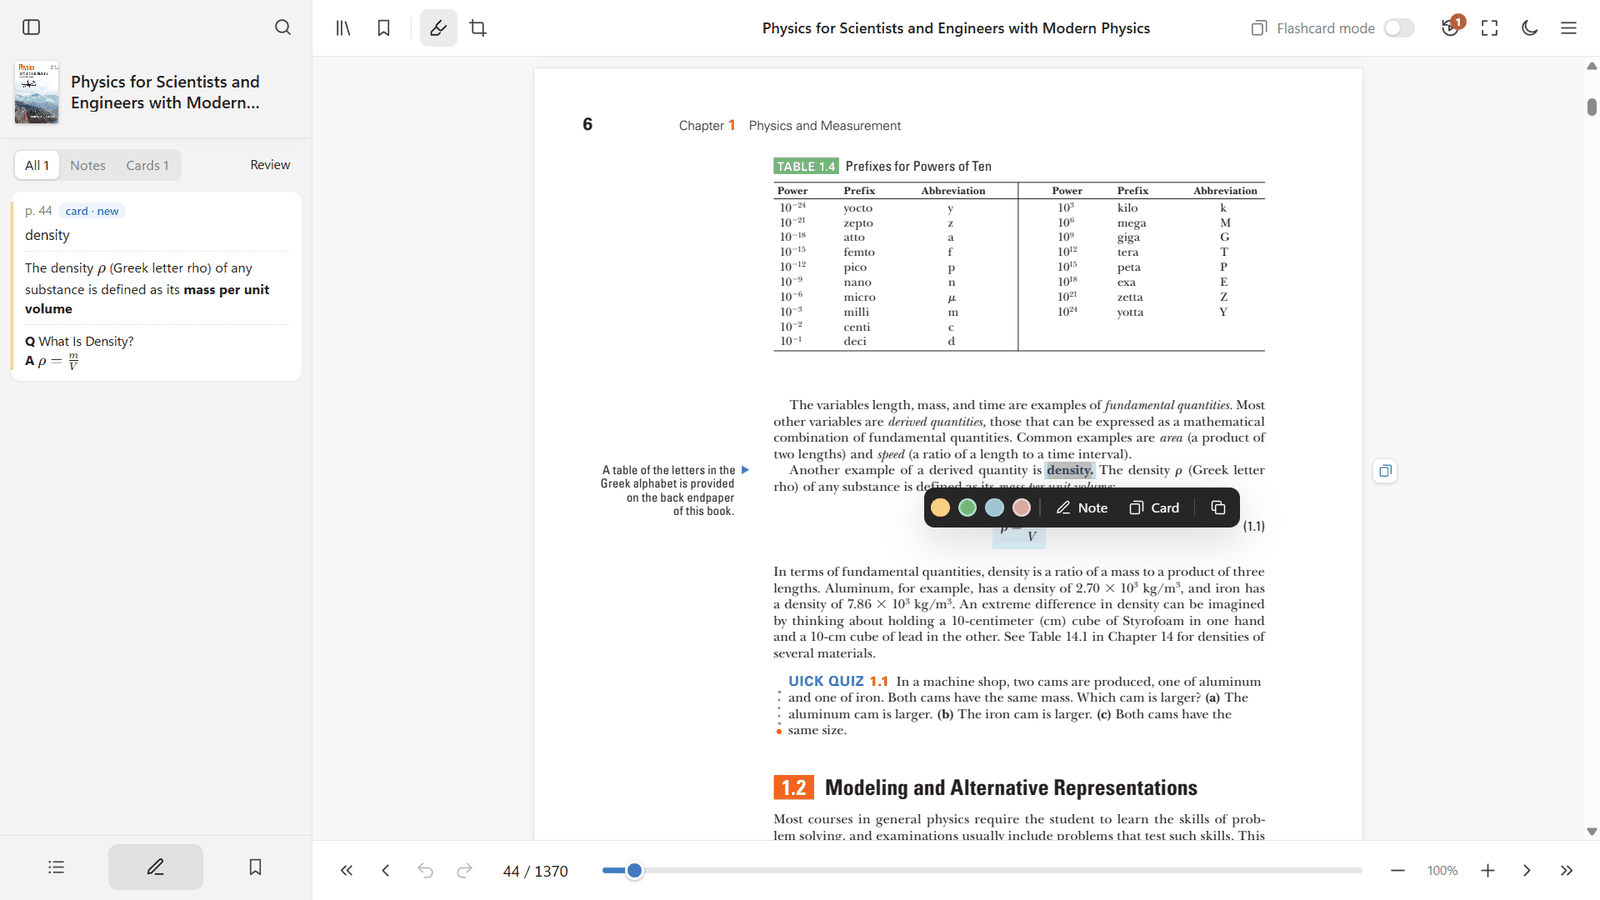
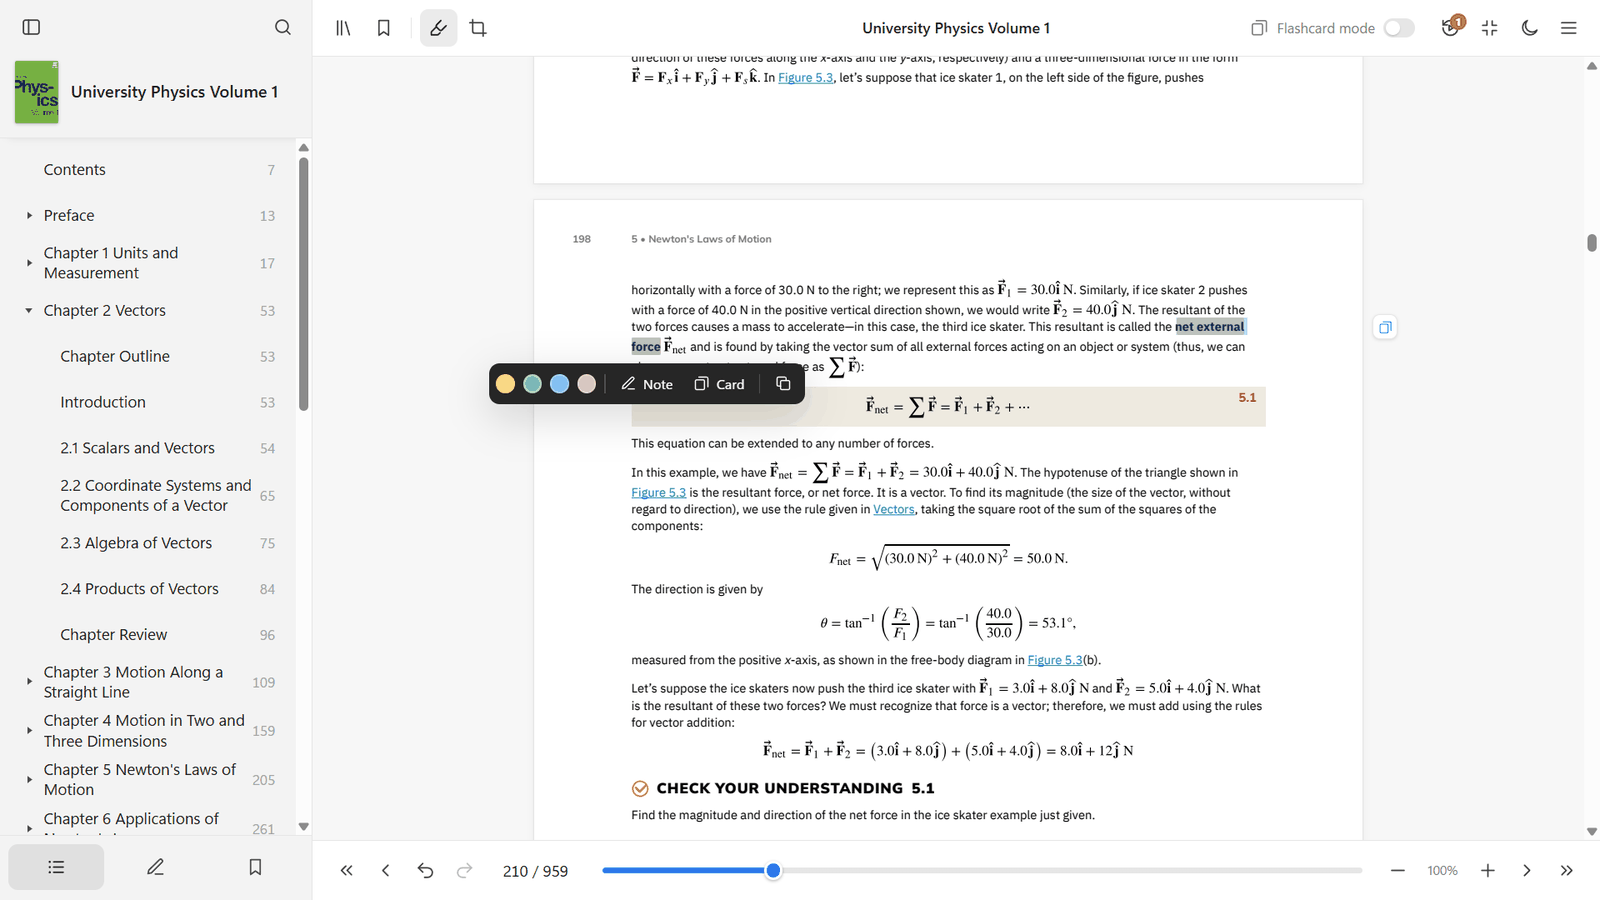
README: retake screenshots with OpenStax University Physics
New reader, editor, review, dark, sepia and library shots; the stats
screenshot is regenerated with the same book title. Adds a CC BY 4.0
credit line for the OpenStax pages.

Claude-Session: https://claude.ai/code/session_01QyopQMMqGNV7Zxhr1gpHiF

diff --git a/README.md b/README.md
@@ -28,17 +28,22 @@ Data lives in `%APPDATA%\com.quant.margin\` on Windows (`books\`, `covers\`, `st
 
 <table>
   <tr>
-    <td width="50%"><img src="docs/screenshots/library.png" alt="Library with book covers, reading progress and card counts"><br><sub><b>Library</b>: covers, reading progress, and how many cards are due</sub></td>
-    <td width="50%"><img src="docs/screenshots/reader.png" alt="Reader with a highlight popup and the notes sidebar"><br><sub><b>Reader</b>: select text to highlight it, add a note, or make a card</sub></td>
+    <td colspan="2"><img src="docs/screenshots/library.png" alt="Library with book covers, reading progress and card counts"><br><sub><b>Library</b>: covers, reading progress, and how many cards are due</sub></td>
   </tr>
   <tr>
+    <td width="50%"><img src="docs/screenshots/reader.png" alt="Reader with a highlight popup and the table of contents"><br><sub><b>Reader</b>: select text to highlight it, add a note, or make a card</sub></td>
     <td width="50%"><img src="docs/screenshots/editor.png" alt="Card editor with LaTeX preview"><br><sub><b>Card editor</b>: front/back or cloze cards, with live LaTeX preview</sub></td>
-    <td width="50%"><img src="docs/screenshots/review.png" alt="Reviewing a card with Again, Hard, Good and Easy buttons"><br><sub><b>Review</b>: grade each card; <i>Open in book</i> jumps back to the page it came from</sub></td>
   </tr>
   <tr>
-    <td colspan="2"><img src="docs/screenshots/reader-dark.png" alt="Reader in dark mode with inverted pages"><br><sub><b>Dark mode</b>, with the pages inverted to match</sub></td>
+    <td width="50%"><img src="docs/screenshots/review.png" alt="Reviewing a card with Again, Hard, Good and Easy buttons"><br><sub><b>Review</b>: grade each card; <i>Open in book</i> jumps back to the page it came from</sub></td>
+    <td width="50%"><img src="docs/screenshots/reader-dark.png" alt="Reader in dark mode with dark pages"><br><sub><b>Dark mode</b>, with the pages darkened to match</sub></td>
+  </tr>
+  <tr>
+    <td colspan="2"><img src="docs/screenshots/reader-sepia.png" alt="Sepia theme with the menu open: themes, zoom, Anki and Mochi export, backups, statistics and settings"><br><sub><b>Sepia theme</b> and the menu: themes, zoom, export to Anki / Mochi / Markdown, backups, statistics, scheduler settings</sub></td>
   </tr>
 </table>
+
+<sub>Book pages in the screenshots: <a href="https://openstax.org/details/books/university-physics-volume-1"><i>University Physics Volume 1</i></a> by OpenStax, licensed under <a href="https://creativecommons.org/licenses/by/4.0/">CC BY 4.0</a>.</sub>
 
 ## Get the Windows installer without installing anything (GitHub Actions)
 
